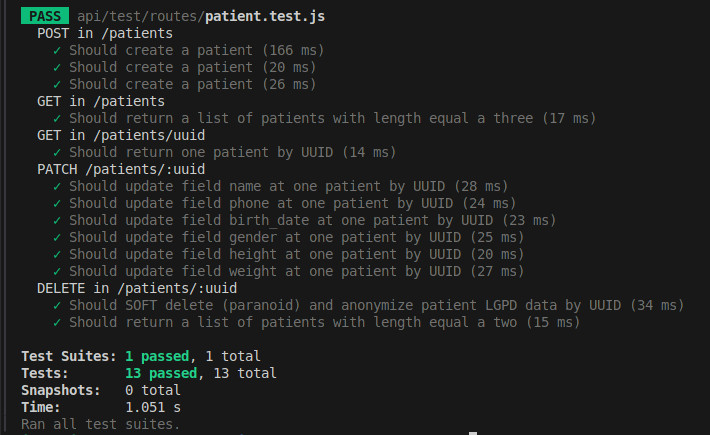
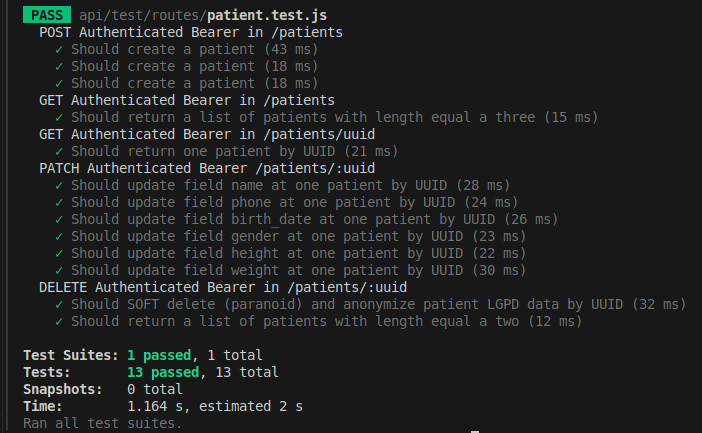
feat(authorization): autorizacao simples implementada, rotas protegidas. entidade doctor criada. house@md.com - lupos

Changed region(s): [[0.0, 0.0, 0.9872, 0.9908], [0.6581, 0.9908, 0.688, 1.0]]

diff --git a/backend-rest/api/test/routes/patient.test.js b/backend-rest/api/test/routes/patient.test.js
@@ -5,10 +5,20 @@ const app = require('../../app.js');
 const { patients } = require('../../models');
 
 let server;
+let bearerToken;
 
 beforeAll(async () => {
   const port = 3000;
   server = app.listen(port);
+
+  const response = await request(app)
+    .post('/auth/login')
+    .send({
+      "email": "house@md.com",
+      "password": "lupos"
+    });
+
+  bearerToken = response.text;
 });
 
 afterAll(async () => {
@@ -63,7 +73,7 @@ function findByUUID(patients, uuid) {
   return patients.find(patient => patient.uuid === uuid);
 }
 
-describe('POST in /patients', () => {
+describe('POST Authenticated Bearer in /patients', () => {
   test.each([
     [0, patientsToCreate[0]],
     [1, patientsToCreate[1]],
@@ -71,6 +81,7 @@ describe('POST in /patients', () => {
   ])('Should create a patient', async (key, patient) => {
     const response = await request(app)
       .post('/patients')
+      .set('Authorization', `Bearer ${bearerToken}`)
       .send(patient)
       .expect(StatusCodes.CREATED);
 
@@ -79,10 +90,12 @@ describe('POST in /patients', () => {
   });
 });
 
-describe('GET in /patients', () => {
+
+describe('GET Authenticated Bearer in /patients', () => {
   it('Should return a list of patients with length equal a three', async () => {
     const response = await request(app)
       .get('/patients')
+      .set('Authorization', `Bearer ${bearerToken}`)
       .set('Accept', 'application.json')
       .expect('content-type', /json/)
       .expect(StatusCodes.OK);
@@ -94,10 +107,12 @@ describe('GET in /patients', () => {
   });
 });
 
-describe('GET in /patients/uuid', () => {
+
+describe('GET Authenticated Bearer in /patients/uuid', () => {
   it('Should return one patient by UUID', async () => {
     const response = await request(app)
       .get(`/patients/${patientToUpdateAndDelete.uuid}`)
+      .set('Authorization', `Bearer ${bearerToken}`)
       .set('Accept', 'application.json')
       .expect('content-type', /json/)
       .expect(StatusCodes.OK);
@@ -105,8 +120,7 @@ describe('GET in /patients/uuid', () => {
   });
 });
 
-
-describe('PATCH /patients/:uuid', () => {
+describe('PATCH Authenticated Bearer /patients/:uuid', () => {
   test.each([
     ['name', { name: patientParamsToUpdate.name }],
     ['phone', { phone: patientParamsToUpdate.phone }],
@@ -117,6 +131,7 @@ describe('PATCH /patients/:uuid', () => {
   ])('Should update field %s at one patient by UUID', async (key, param) => {
     await request(app)
       .patch(`/patients/${patientToUpdateAndDelete.uuid}`)
+      .set('Authorization', `Bearer ${bearerToken}`)
       .send(param)
       .expect(StatusCodes.OK);
 
@@ -130,10 +145,11 @@ describe('PATCH /patients/:uuid', () => {
 });
 
 
-describe('DELETE in /patients/:uuid', () => {
+describe('DELETE Authenticated Bearer in /patients/:uuid', () => {
   it('Should SOFT delete (paranoid) and anonymize patient LGPD data by UUID', async () => {
     await request(app)
       .delete(`/patients/${patientToUpdateAndDelete.uuid}`)
+      .set('Authorization', `Bearer ${bearerToken}`)
       .expect(StatusCodes.NO_CONTENT);
 
     const deletedPatient = await patients.findOne({
@@ -159,6 +175,7 @@ describe('DELETE in /patients/:uuid', () => {
   it('Should return a list of patients with length equal a two', async () => {
     const response = await request(app)
       .get('/patients')
+      .set('Authorization', `Bearer ${bearerToken}`)
       .set('Accept', 'application.json')
       .expect('content-type', /json/)
       .expect(StatusCodes.OK);
@@ -166,4 +183,3 @@ describe('DELETE in /patients/:uuid', () => {
     expect(response.body.length).toEqual(2) // IMHO Magic number is valid just in case, semantic test suit
   });
 });
-

diff --git a/backend-rest/api/middlewares/authenticate.js b/backend-rest/api/middlewares/authenticate.js
@@ -1,0 +1,26 @@
+const { StatusCodes } = require('http-status-codes');
+const { verify, decode } = require('jsonwebtoken')
+const jsonsecret = require('../config/jsonSecret')
+
+module.exports = async (req, res, next) => {
+    const token = req.headers.authorization
+
+    if (!token) {
+        return res.status(StatusCodes.UNAUTHORIZED).json({ message: 'unauthorized' })
+    }
+
+    const [, accessToken] = token.split(" ")
+
+    try {
+        verify(accessToken, jsonsecret.secret)
+
+        const { uuid, email } = await decode(accessToken)
+
+        req.userUUID = uuid
+        req.userEmail = email
+
+        return next()
+    } catch (error) {
+        return res.status(StatusCodes.UNAUTHORIZED).json({ message: 'unauthorized' })
+    }
+}

diff --git a/backend-rest/api/routes/index.js b/backend-rest/api/routes/index.js
@@ -1,13 +1,11 @@
 const bodyParser = require('body-parser')
-
-const patient = require('./patientRoutes')
 const auth = require('./authRoutes')
-// const doctor = require('./doctorRoutes') UNDOCUMENTED
+const patient = require('./patientRoutes')
 
 module.exports = app => {
   app.use(
     bodyParser.json(),
-    patient,
-    auth
+    auth,
+    patient
   )
 }

diff --git a/backend-rest/api/routes/patientRoutes.js b/backend-rest/api/routes/patientRoutes.js
@@ -1,7 +1,10 @@
 const { Router } = require('express')
 const PatientController = require('../controllers/patientController')
+const authenticate = require('../middlewares/authenticate')
 
 const router = Router()
+
+router.use(authenticate)
 
 router
   .post('/patients', PatientController.create)
